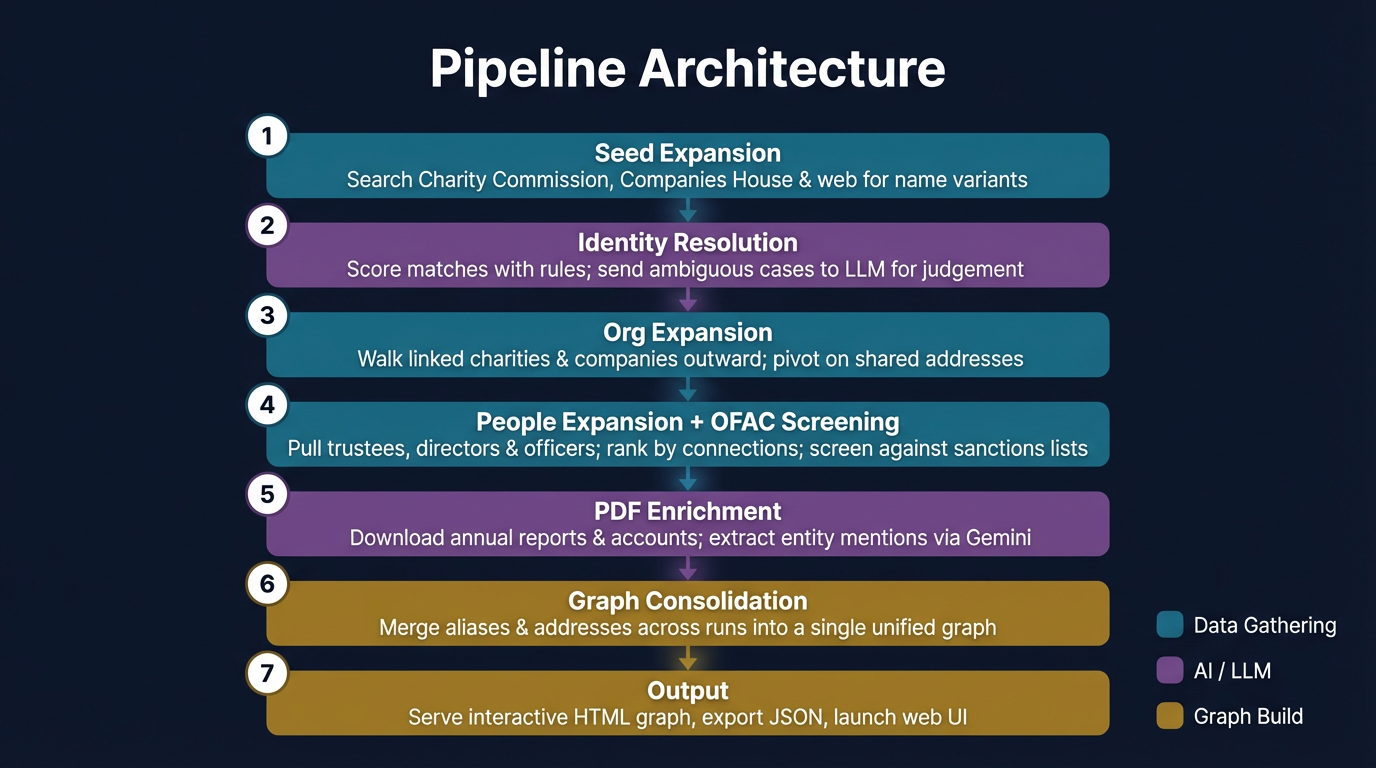
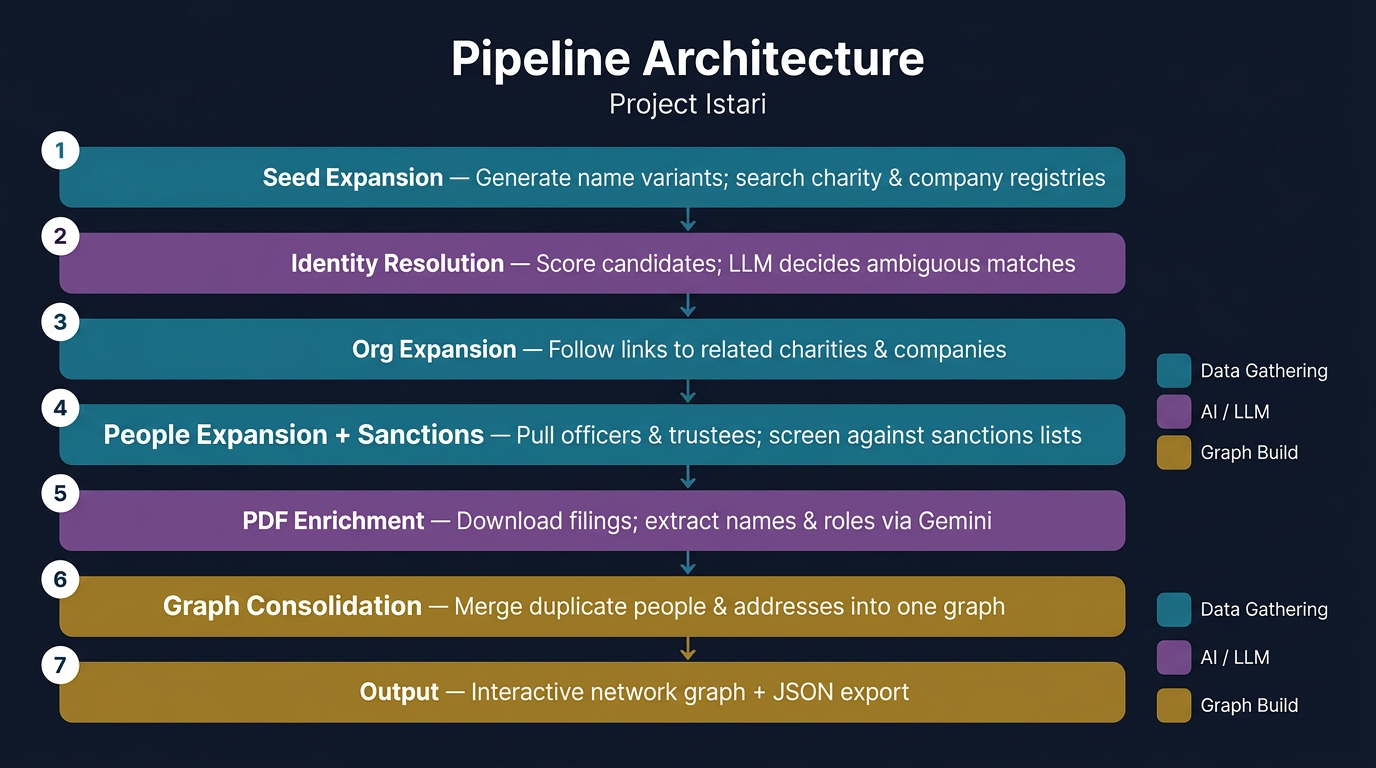
Simplify pipeline step descriptions in diagram and README.
Made-with: Cursor

diff --git a/README.md b/README.md
@@ -10,19 +10,19 @@ Given one or more **seed names**, Istari searches UK public registries, resolves
 
 ### How it works
 
-1. **Seed Expansion** — Generate spelling and transliteration variants of the seed name, then search the Charity Commission, Companies House, and the web (Serper) for registry evidence.
+1. **Seed Expansion** — Generate name variants and search UK charity/company registries for matches.
 
-2. **Identity Resolution** — Score each candidate match deterministically. Ambiguous mid-range candidates are sent to an LLM (Gemini or OpenAI) for a same-person judgement. Officers are keyed on name + birth month/year so distinct people with the same name stay separate.
+2. **Identity Resolution** — Score candidates with rules; use an LLM to decide ambiguous same-person matches.
 
-3. **Org Expansion** — Walk linked charities and companies outward from confirmed matches. An address-pivot search discovers additional organisations registered at the same physical addresses.
+3. **Org Expansion** — Follow confirmed matches to linked charities and companies; find more orgs at shared addresses.
 
-4. **People Expansion** — Pull trustees, directors, secretaries, and officers for every scoped organisation. People are ranked by the number and weight of their connections.
+4. **People Expansion + Sanctions** — Pull officers and trustees for each organisation; rank by connection strength; screen against sanctions lists.
 
-5. **PDF Enrichment** — Download charity/company PDFs (annual reports, accounts) and extract structured mentions via Gemini, including the connection phrase and explanatory detail for each mention.
+5. **PDF Enrichment** — Download annual reports and filings; extract names and roles using Gemini.
 
-6. **Graph Consolidation** — Merge person aliases and equivalent addresses across runs so shared edges collapse onto common nodes. Address merging uses deterministic normalisation first, with an LLM fallback for ambiguous near-matches.
+6. **Graph Consolidation** — Merge duplicate people and addresses across runs into one unified graph.
 
-7. **Output** — Serve an interactive 4-lane HTML network graph, export JSON for the Netlify viewer, and screen ranked people against sanctions lists.
+7. **Output** — Serve an interactive network graph and export JSON for the web viewer.
 
 ### Data sources
 
